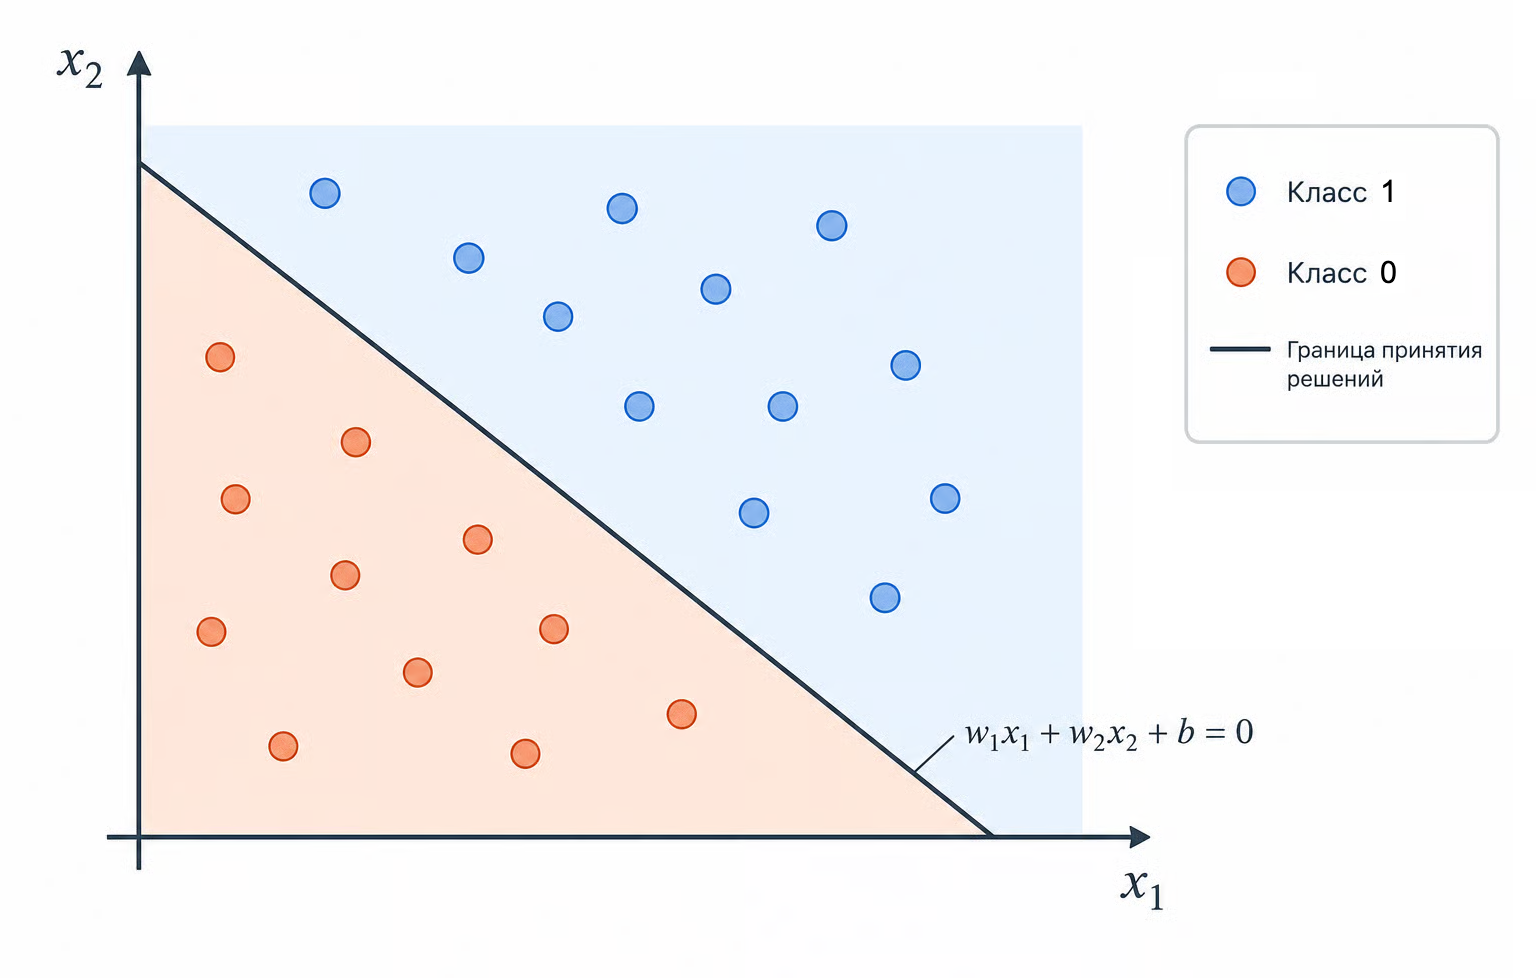
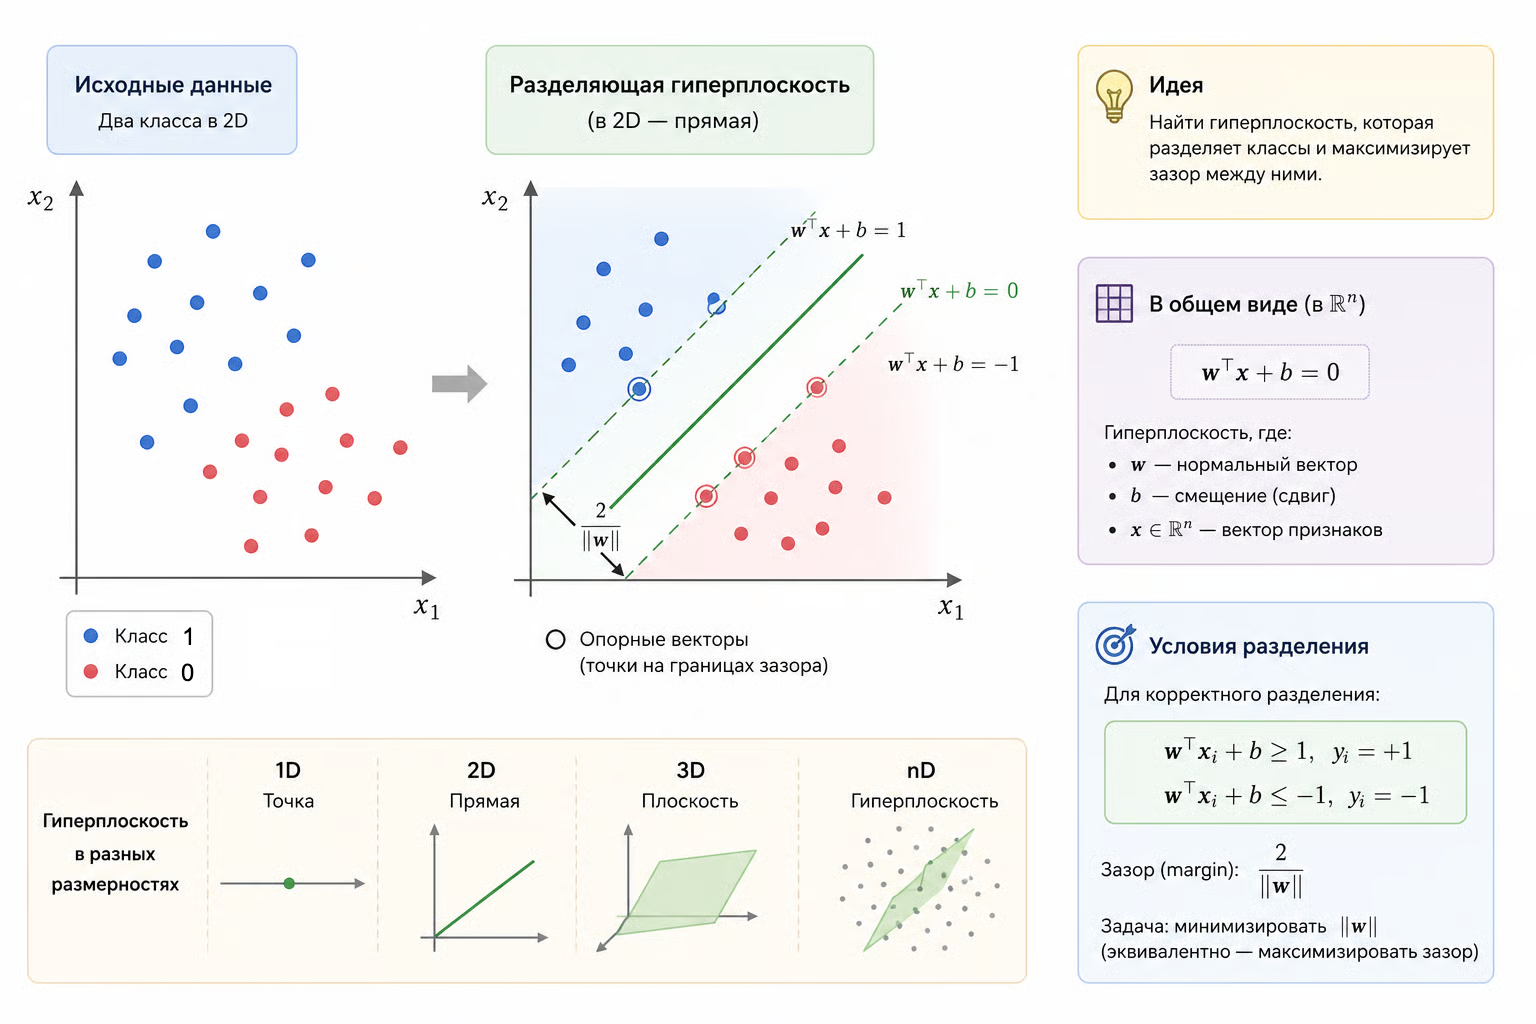
GITBOOK-1098: No subject

diff --git a/ru/chast-vi.-neiroseti-i-rabota-s-dannymi/6.1-perceptron-i-polnosvyaznaya-set/README.md b/ru/chast-vi.-neiroseti-i-rabota-s-dannymi/6.1-perceptron-i-polnosvyaznaya-set/README.md
@@ -19,13 +19,17 @@ description: Линейные комбинации и нелинейности.
 * кредитную историю
 * текущую долговую нагрузку
 
-Каждый фактор имеет свою "важность". Доход может быть важнее стажа, просрочки – сильным отрицательным фактором. Все эти факторы складываются, и если итоговый "балл" превышает некоторый порог – кредит одобряется.
+Каждый фактор имеет свою "важность". Доход может быть важнее стажа, просрочки – сильным отрицательным фактором. Каждый фактор сначала умножается на свой вес, после чего результаты складываются. Если итоговый "балл" превышает некоторый порог  – кредит одобряется.
 
-Перцептрон делает ровно это же, только в математической форме.
+Перцептрон делает очень похожую операцию, только в математической форме.
 
 #### Исторический контекст
 
-Перцептрон был предложен в 1957 году Фрэнком Розенблаттом. Это была одна из первых моделей, вдохновленных нейронами мозга.
+Перцептрон был предложен [Фрэнком Розенблаттом](https://ru.wikipedia.org/wiki/%D0%A0%D0%BE%D0%B7%D0%B5%D0%BD%D0%B1%D0%BB%D0%B0%D1%82%D1%82,_%D0%A4%D1%80%D1%8D%D0%BD%D0%BA). Это была одна из первых моделей, вдохновленных нейронами мозга.
+
+{% hint style="info" %}
+В 1958 году Розенблатт опубликовал работу [_The Perceptron: A Probabilistic Model for Information Storage and Organization in the Brain_](https://homepages.math.uic.edu/~lreyzin/papers/rosenblatt58.pdf), благодаря которой модель получила широкую известность.
+{% endhint %}
 
 Идея была простой: нейрон получает сигналы от других нейронов, суммирует их, и если сигнал превышает определенный порог – "выстреливает". В противном случае – молчит.
 
@@ -59,7 +63,7 @@ $$
 z = \sum_{i=1}^{n} w_i x_i + b
 $$
 
-Это линейная комбинация признаков.
+Это линейная комбинация признаков. Поскольку в выражении присутствует смещение (bias), такое преобразование также называют [аффинным](../../vvedenie/glossarii.md#affinnoe-preobrazovanie).
 
 После этого применяется пороговая функция:
 
@@ -84,9 +88,11 @@ $$
 * по одну сторону – класс 1
 * по другую сторону – класс 0
 
-Перцептрон не "угадывает" ответ. Он проводит разделяющую поверхность.
+Во время обучения перцептрон ищет разделяющую гиперплоскость, которая лучше всего отделяет один класс от другого.
 
 И если данные можно разделить одной плоской границей – перцептрон способен это сделать.
+
+Более того, [теорема сходимости перцептрона](https://ru.wikipedia.org/wiki/%D0%A2%D0%B5%D0%BE%D1%80%D0%B5%D0%BC%D0%B0_%D1%81%D1%85%D0%BE%D0%B4%D0%B8%D0%BC%D0%BE%D1%81%D1%82%D0%B8_%D0%BF%D0%B5%D1%80%D1%86%D0%B5%D0%BF%D1%82%D1%80%D0%BE%D0%BD%D0%B0) утверждает, что если данные линейно разделимы, алгоритм обучения гарантированно найдет такую разделяющую гиперплоскость за конечное число шагов.
 
 <div align="left"><figure><img src="../../.gitbook/assets/6.1-1_hyperplane-separation.png" alt=""><figcaption><p>Рис. 6.1-1. Разделение гиперплоскостей</p></figcaption></figure></div>
 
@@ -132,7 +138,13 @@ $$
 
 Если предсказание верное – веса не меняются.
 
-Если ошибка – веса сдвигаются в сторону правильного класса.
+Если ошибка – веса сдвигаются в сторону правильного класса.&#x20;
+
+Аналогичным образом обновляется и смещение (bias):
+
+$$
+b = b + \eta(y − ŷ)
+$$
 
 Интуитивно это похоже на корректировку линии на графике так, чтобы она лучше разделяла точки разных классов.
 
@@ -172,7 +184,7 @@ $$
 w_1 x_1 + w_2 x_2 + b = 0
 $$
 
-<div align="left"><figure><img src="../../.gitbook/assets/6.1-2_decision-boundary.png" alt=""><figcaption><p>Рис. 6.1-2. Граница принятия решений</p></figcaption></figure></div>
+<div align="left"><figure><img src="../../.gitbook/assets/6.1-2_decision-boundary.png.png" alt=""><figcaption><p>Рис. 6.1-2. Граница принятия решений</p></figcaption></figure></div>
 
 Линейная комбинация – это та же идея, что и в линейной регрессии и логистической регрессии. Разница начинается дальше.
 
@@ -193,13 +205,13 @@ $$
 
 #### Ограничение
 
-Перцептрон умеет решать только линейно разделимые задачи.
+Перцептрон умеет решать только [линейно разделимые задачи](https://ru.wikipedia.org/wiki/%D0%9B%D0%B8%D0%BD%D0%B5%D0%B9%D0%BD%D0%B0%D1%8F_%D1%81%D0%B5%D0%BF%D0%B0%D1%80%D0%B0%D0%B1%D0%B5%D0%BB%D1%8C%D0%BD%D0%BE%D1%81%D1%82%D1%8C).
 
-Например, XOR (как было упомянуть выше) он решить не может.
+Например, XOR (как было упомянуто выше) он решить не может.
 
 <div align="left"><figure><img src="../../.gitbook/assets/6.1-3_-xor-problem.png" alt=""><figcaption><p>Рис. 6.1-3. Проблема XOR</p></figcaption></figure></div>
 
-XOR требует нелинейности. И здесь начинается история многослойных сетей.
+XOR невозможно разделить одной гиперплоскостью, поэтому для его решения необходима нелинейность. И именно отсюда началась история многослойных сетей.
 
 ### Перцептрон на чистом PHP
 
@@ -275,7 +287,7 @@ $$
 
 Следовательно:
 
-> Несколько линейных слоев без нелинейности эквивалентны одному линейному слою.
+> Несколько линейных (точнее – аффинных) слоев без нелинейности эквивалентны одному аффинному преобразованию.
 
 Именно поэтому активация – не "декорация", а математическая необходимость.
 
@@ -305,7 +317,7 @@ $$
 
 <div align="left"><figure><img src="../../.gitbook/assets/6.1-4_activation-functions.png" alt=""><figcaption><p>Рис. 6.1-4. Функции активации</p></figcaption></figure></div>
 
-ReLU стал стандартом в глубоких сетях благодаря простоте и отсутствию насыщения на положительной части.
+ReLU стал стандартом в глубоких сетях благодаря простоте вычислений и отсутствию насыщения на положительной части.
 
 ### Полносвязная сеть (MLP)
 
@@ -324,11 +336,13 @@ $$
 
 <div align="left"><figure><img src="../../.gitbook/assets/6.1-5_mlp-diagram.png" alt=""><figcaption><p>Рис. 6.1-5. Диаграмма MLP</p></figcaption></figure></div>
 
-#### Один скрытый слой может всё
+#### Теоретически одного скрытого слоя достаточно
 
 Теорема универсальной аппроксимации утверждает:
 
-Сеть с одним скрытым слоем и нелинейной активацией может аппроксимировать любую непрерывную функцию с произвольной точностью.
+> Сеть с одним скрытым слоем и нелинейной активацией может аппроксимировать любую непрерывную функцию с произвольной точностью.
+
+Важно понимать, что теорема гарантирует существование такой сети, но не утверждает, что нужные веса можно легко найти в процессе обучения.
 
 Это фундаментальная причина, почему MLP – не просто игрушка.
 
@@ -343,11 +357,15 @@ class SimpleMLP
     private array $W2;
     private float $lr;
 
+    // Для простоты веса инициализируются случайными числами из диапазона [0; 1]. 
+    // На практике обычно используют симметричную инициализацию 
+    // (например, Xavier или He).
     public function __construct(int $inputSize, int $hiddenSize, float $lr = 0.01)
     {
         $this->lr = $lr;
 
         $this->W1 = [];
+
         for ($i = 0; $i < $hiddenSize; $i++) {
             $this->W1[$i] = array_fill(0, $inputSize, mt_rand() / mt_getrandmax());
         }
@@ -382,6 +400,8 @@ class SimpleMLP
 }
 ```
 
+Для простоты пример не использует смещения (bias). В реальных нейронных сетях каждый нейрон обычно имеет собственный bias.
+
 Это только forward-pass. Для обучения нужен backpropagation – мы разберем его в следующей главе.
 
 #### Геометрическая интуиция MLP
@@ -392,7 +412,7 @@ class SimpleMLP
 2. Применяет нелинейность
 3. Создает новые признаки
 
-Каждый нейрон – это новая проекция пространства.
+Каждый нейрон вычисляет новое представление данных – новую нелинейную комбинацию исходных признаков.
 
 Композиция таких преобразований позволяет:
 
@@ -402,7 +422,7 @@ class SimpleMLP
 
 ### Связь с логистической регрессией
 
-Логистическая регрессия – это перцептрон с sigmoid и обучением по [log loss](../../vvedenie/glossarii.md#log-loss-logarifmicheskaya-funkciya-poter).
+Перцептрон и логистическая регрессия используют одну и ту же линейную комбинацию признаков. Главное отличие заключается в функции активации и способе обучения. Перцептрон использует ступенчатую функцию и правило обучения Розенблатта, тогда как логистическая регрессия использует сигмоиду и оптимизирует логарифмическую функцию потерь ([log loss](../../vvedenie/glossarii.md#log-loss-logarifmicheskaya-funkciya-poter)).
 
 То есть:
 
@@ -430,7 +450,7 @@ $$
 
 MLP – это:
 
-* композиция линейных преобразований
+* композиция линейных (аффинных) преобразований
 * с обязательной нелинейностью
 * способная строить сложные поверхности решений
 